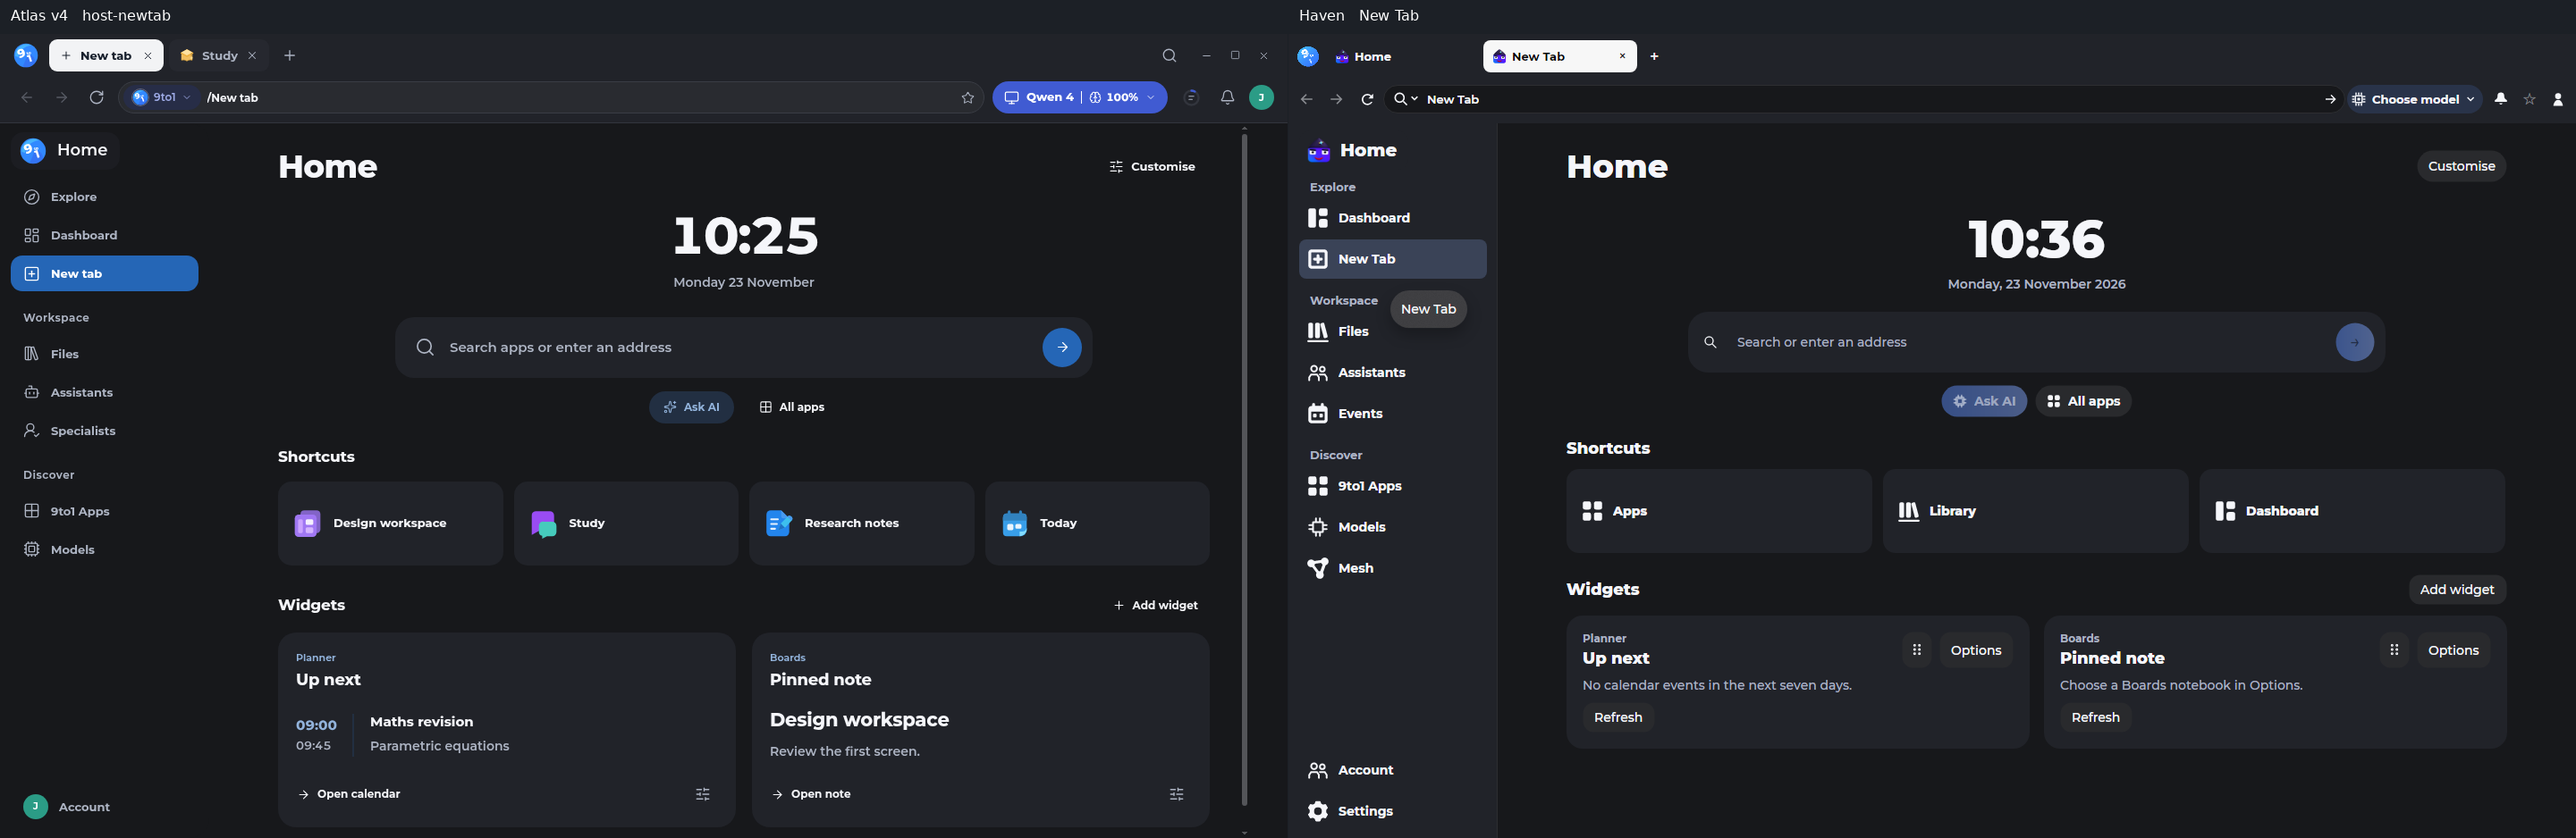
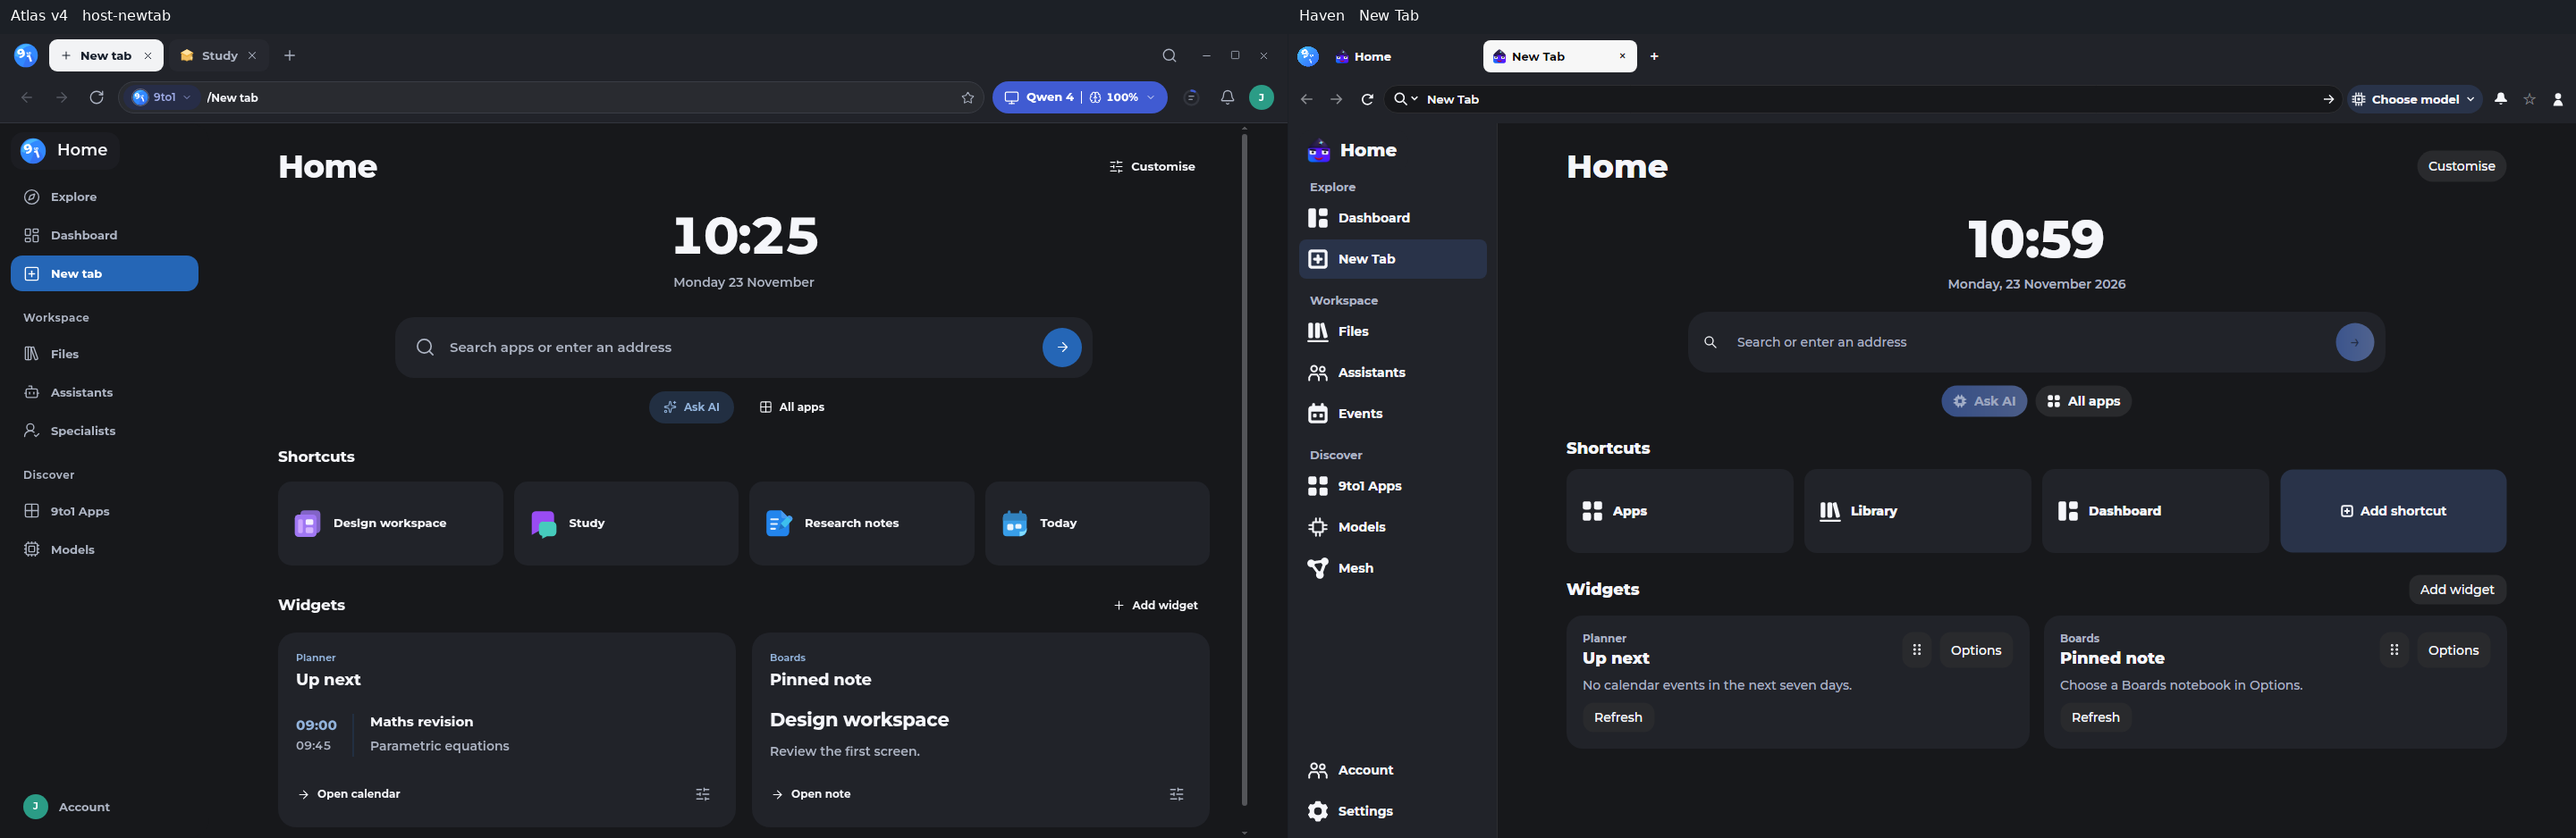
Record native shortcut persistence and refreshed New Tab comparisons

Changed region(s): [[0.6873, 0.5565, 0.9997, 0.6802], [0.5311, 0.3401, 0.5935, 0.4019], [0.781, 0.2473, 0.8122, 0.3092]]

diff --git a/docs/development/refactor-2026-11-18/feature-inventory.md b/docs/development/refactor-2026-11-18/feature-inventory.md
@@ -23,12 +23,16 @@ On 22 November the shared strip gained app artwork and heavier text (`8185046f4`
 
 | Surface | Classification | Current user flow |
 | --- | --- | --- |
-| Home gear → Settings → Appearance | Adaptation and partial coverage (SET-001–006, UI-001–017, IX-BASE-008) | The gear opens Global → Appearance. The searchable, keyboard-navigable rail includes all 73 Atlas directory destinations under Global, Local, 9to1 Haven and Apps. Available actions open the original owner. Categories with unavailable services state the prerequisite. Theme Options opens the actual material editor. Save activates the authored theme, and Escape discards a draft. Per-app and global palette editors accept exact colours and preserve independent overrides. The Gallery displays saved materials. |
-| Dashboard and New Tab | Adaptation (HOME-001–005, IX-HOME-006/009, SHELL-005) | Dashboard has its own route, tab identity and stored layout. New Tab has its own profile-scoped presets, clock and shortcuts, background presets, local image selection and widget placements. Ask AI opens the exact unsent text in a separate Spaces conversation while retaining the source tab. The widget catalogue offers six types. Planner, Boards, Spaces and Study projections use the owning local data. The timer starts and pauses locally. Customise preserves a typed query and uses conditional writes so another window’s saved changes survive. |
-| Native Browse tab focus | Adaptation (UI-006, IX-HOST-001–002, SHELL-005) | At desktop widths the shared Home rail groups its working routes and exposes the Account and Assistants owners. Its footer keeps Settings reachable at narrow widths. The leading 9to1 mark, neutral selected tab, adjacent New Tab control and model disclosure follow the shared shell. Directional keys move focus through full tab titles. Enter selects, Close remains separately reachable, and successful close or reopen transfers focus through the existing workspace owner. Ctrl+L from nested Settings selects the editable address or its retained draft. Focused popups and child controls that claim the shortcut keep it. |
+| Home gear → Settings → Appearance | Adaptation and partial coverage (SET-001–006, UI-001–017, IX-BASE-008) | The gear opens Global → Appearance. The searchable, keyboard-navigable rail includes all 73 Atlas directory destinations under Global, Local, 9to1 Haven and Apps. Available actions open the original owner. Categories with unavailable services state the prerequisite. Appearance and Theme Options open the material editor. Explicit Save activates the authored theme, and Escape discards a draft. Per-app and global palette editors accept exact colours and preserve independent overrides. The gallery renders saved materials. |
+| Dashboard and New Tab | Adaptation (HOME-001–005, IX-HOME-006–012, SHELL-005) | Dashboard has its own route, tab identity and stored layout. New Tab has profile-scoped layout presets, clock, backgrounds, shortcuts and widget placements. Ask AI opens the exact unsent text in a separate Spaces conversation while retaining the source tab. Shortcuts starts with Apps, Library and Dashboard. Add accepts an available Home destination or a validated HTTP(S) address. Customise edits, removes or reorders shortcuts through visible buttons or Alt+Arrow. Pinned destinations and Shortcut order in Settings open that same editor and retain the Settings tab. The six widget types use their owning local data where available. Customise keeps a typed query and uses conditional writes so another window’s saved changes survive. |
+| Native Browse tab focus and toolbar | Adaptation (UI-006, IX-HOST-001–002, SHELL-005) | At desktop widths the shared Home rail groups its working routes and exposes the Account and Assistants owners. Its footer keeps Settings reachable at narrow widths. The leading 9to1 mark, neutral selected tab, adjacent New Tab control and model disclosure follow the shared shell. Directional keys move focus through full tab titles. Enter selects, Close remains separately reachable and successful close or reopen transfers focus through the workspace owner. Ctrl+L from nested Settings selects the editable address or its retained draft. Focused popups and child controls that claim the shortcut keep it. The selected theme editor contributes Save theme to the Browse toolbar at widths of 800 device-independent pixels and above, or to overflow below 800. |
 | Home rail and compact Settings | Adaptation (HOME-001–005, SET-001/005) | Desktop rows show readable labels on the existing rail. Compact New Tab keeps Search, Go and its quick actions within the view. Back stays visible as Settings categories scroll. |
 | Main model picker | Adaptation and partial coverage (PICK-001–009) | The model button opens a compact view backed by the Home model source. More settings and Back share the same route editor and draft. The existing Save and new explicit Discard operate through the same owner. Runtime role switching and context Apply remain open. |
 | Spaces Chat Options | Adaptation (APP-SPACES-002, SPC-010, NCONV-010/012) | The conversation viewport keeps the popup below the shared chrome. Narrow mode scrolls to permitted actions and their Save and Cancel controls. Escape returns focus and preserves the draft. |
+
+The shortcut owner is `UnifiedHomePage.Shortcuts.cs` with data in `NewTabLayoutPreferences.cs`. Legacy layouts without a shortcut field receive the three shipped defaults. An explicitly empty list stays empty. Reset restores shortcut order while keeping saved destinations and labels. The 1440 × 900 and 720 × 520 checks covered validation, Save, Cancel, opening a destination, renaming, reordering, removal and reopen. Cross-app artifact selection, shortcut drag and drop and icon editing are still open. [Shortcut tests](<../../../9to1 Workspace/shared/tests/Haven.Desktop.Tests/UnifiedHomeContentTests.NewTabShortcuts.cs>)
+
+The theme toolbar and overflow invoke the same Save command from the selected editor. The focused tests used two live editor tabs at 1440 × 900 and 720 × 520. An admitted save finished in its originating tab after selection moved. The second tab kept its draft, address text and focus, and stale commands could not save either draft. The Settings catalogue still identifies unavailable service operations such as account-wide permission and privacy editing, billing, host sandbox policy, app package management and keyboard remapping. The Atlas onboarding choices for Local and Local + Cloud still need a native provider and routing owner. [Theme toolbar tests](<../../../9to1 Workspace/shared/tests/Haven.Desktop.Tests/NativeThemeToolbarTests.cs>)
 
 [Cloud checks and captures](../evidence/atlas-20261122-cloud/README.md) · [Atlas and native visual comparison](../evidence/atlas-20261123-visual-review/README.md) · [Settings, appearance and New Tab continuation](../evidence/atlas-20261123-shell-completion/README.md)
 

diff --git a/docs/development/evidence/atlas-20261123-shell-completion/README.md b/docs/development/evidence/atlas-20261123-shell-completion/README.md
@@ -14,6 +14,8 @@ Create theme opens the shared editor from Appearance and Theme Options. Its draf
 
 Focus, Balanced and More widgets use a layout scoped to the current profile. Changing a preset and background survived a full restart. A separate in-session keyboard check recovered the exact unsent search text after closing Customise. The Linux Upload button opened the native file chooser, and Escape returned to the editor. [Compact background choice](journeys/stage5-customise-horizon-narrow.png) · [Layout after restart](journeys/stage5-new-tab-after-relaunch.png) · [Retained search text](journeys/stage5-new-tab-draft-after-escape.png)
 
+Apps, Library and Dashboard are the three initial shortcuts. In the native app, adding a fourth shortcut to Settings survived a full restart. Moving and renaming it kept the same placement ID and destination. Removing it restored the original three in order. Every other stored layout field stayed equal across those edits. Attempting to add Dashboard a second time showed validation before the first layout write. [After restart](journeys/stage11-shortcut-relaunch.png) · [After moving and renaming](journeys/stage11-shortcut-move-rename.png) · [After removal](journeys/stage11-shortcut-remove.png) · [Stored revisions and image hashes](journeys/shortcut-lifecycle.json)
+
 Early integrated launches exposed a gear crash, colliding control IDs in Customise, and a widget picker action that initially still addressed the older inline UI. Separate private profiles retained those failures and the successful follow-up journeys. Only the early failed profile needed forced shutdown. Both subsequent Settings and custom-theme sessions and their relaunches closed normally. [Intermediate runs and image hashes](journeys/intermediate-journeys.json)
 
 ## Comic
@@ -24,7 +26,7 @@ The shared CUI renderer exercised the Comic primary, disabled, hovered and press
 
 ## Matched Settings routes
 
-Each comparison shows the pinned Atlas on the left and the running Haven application on the right at the same viewport. The 720-pixel Atlas can clip its fixed desktop canvas. Haven gives the rail and content separate vertical scrolling at that width. The Atlas creator example uses an authored gradient. The captured native creator starts from its actual solid default. [Rendered image and assembly hashes](comparisons/receipt.json)
+Each comparison shows the pinned Atlas on the left and the running Haven application on the right at the same viewport. The 720-pixel Atlas can clip its fixed desktop canvas. Haven gives the rail and content separate vertical scrolling at that width. The Atlas creator example uses an authored gradient. The captured native creator starts from its actual solid default. The combined PNGs are stored here. The receipt identifies the original cloud captures and the native assemblies used for each pair. [Rendered image and assembly hashes](comparisons/receipt.json)
 
 | Route | 1440 × 900 | 720 × 520 |
 | --- | --- | --- |
